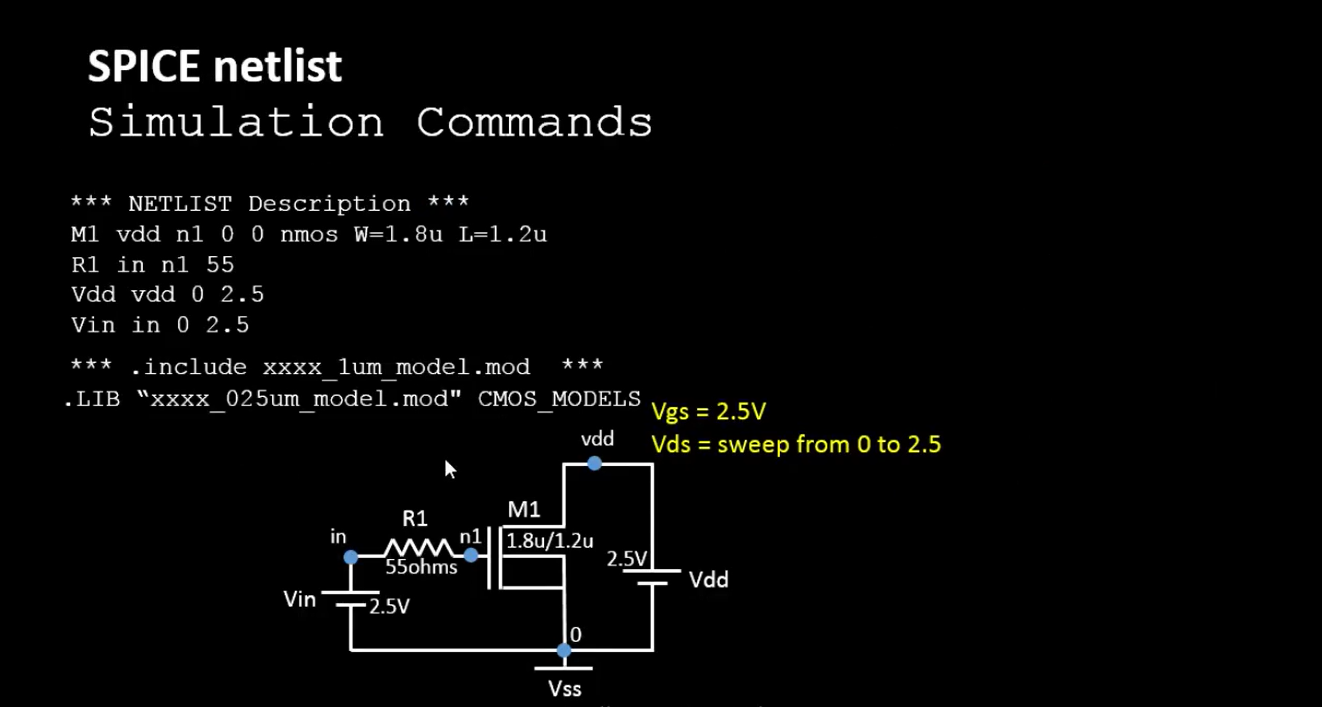
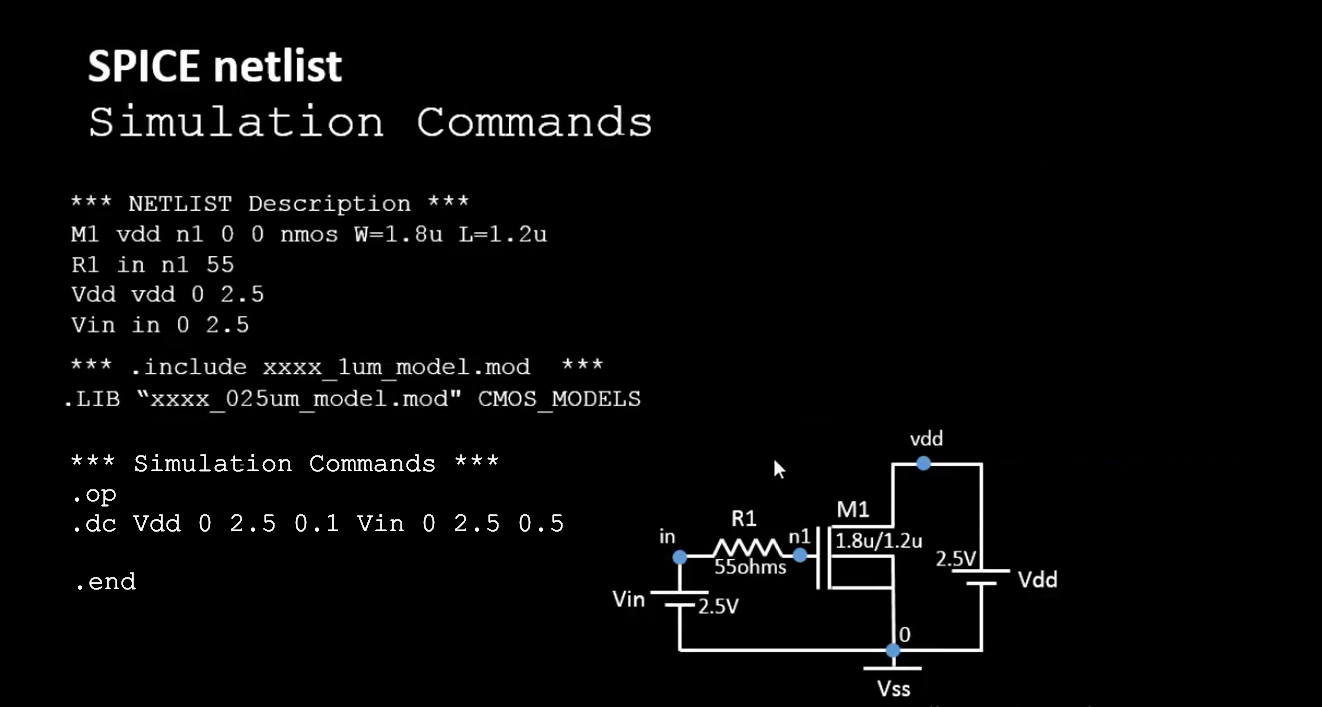
Replace image and update Day14

diff --git a/docs/Day_14.md b/docs/Day_14.md
@@ -29,7 +29,7 @@ A circuit simulator is provided with an input file that contains:
   - Inputs to the circuit, called _**stimulus**_
   - _**Simulation options**_ & _**analysis commands**_ that explain the type of simulation to be run.
 
-| ![CircuitDesignWorkshop_D1_Basic_Spice_Syntax_Weste_Harris_3](/docs/images/CircuitDesignWorkshop/CircuitDesignWorkshop_D1_Basic_Spice_Syntax_Weste_Harris_3.png) | |
+ |
 |:---:|:---:|
 | ![CircuitDesignWorkshop_D1_Basic_Spice_Syntax_Ngspice_1](/docs/images/CircuitDesignWorkshop/CircuitDesignWorkshop_D1_Basic_Spice_Syntax_Ngspice_1.png) | ![CircuitDesignWorkshop_D1_Basic_Spice_Syntax_Ngspice_2](/docs/images/CircuitDesignWorkshop/CircuitDesignWorkshop_D1_Basic_Spice_Syntax_Ngspice_2.png) |
 
@@ -46,13 +46,14 @@ Analysis Types supported by SPICE:
 | Noise Analysis | Measures the device-generated noise for a given circuit. |
 
 The following images show how a SPICE deck is written to perform DC analysis of an NMOS transistor:
-| ![CircuitDesignWorkshop_D1_Basic_Spice_Setup](/docs/images/CircuitDesignWorkshop/CircuitDesignWorkshop_D1_Basic_Spice_Setup.png) |
-|:---:|
-| ![CircuitDesignWorkshop_D1_Basic_Spice_Syntax_1](/docs/images/CircuitDesignWorkshop/CircuitDesignWorkshop_D1_Basic_Spice_Syntax_1.png) |
-| ![CircuitDesignWorkshop_D1_Basic_Spice_Syntax_2](/docs/images/CircuitDesignWorkshop/CircuitDesignWorkshop_D1_Basic_Spice_Syntax_2.png) |
-| ![CircuitDesignWorkshop_D1_Basic_Spice_Syntax_3](/docs/images/CircuitDesignWorkshop/CircuitDesignWorkshop_D1_Basic_Spice_Syntax_3.png) |
-| ![CircuitDesignWorkshop_D1_Basic_Spice_Syntax_4](/docs/images/CircuitDesignWorkshop/CircuitDesignWorkshop_D1_Basic_Spice_Syntax_4.png) |
-| ![CircuitDesignWorkshop_D1_Basic_Spice_Syntax_5](/docs/images/CircuitDesignWorkshop/CircuitDesignWorkshop_D1_Basic_Spice_Syntax_5.png) |
+| ![CircuitDesignWorkshop_D1_Basic_Spice_Syntax_Weste_Harris_3](/docs/images/CircuitDesignWorkshop/CircuitDesignWorkshop_D1_Basic_Spice_Syntax_Weste_Harris_3.png) | ![CircuitDesignWorkshop_D1_Basic_Spice_Setup](/docs/images/CircuitDesignWorkshop/CircuitDesignWorkshop_D1_Basic_Spice_Setup.png) |
+|:---:|:---:|
+| | |
+
+| ![CircuitDesignWorkshop_D1_Basic_Spice_Syntax_1](/docs/images/CircuitDesignWorkshop/CircuitDesignWorkshop_D1_Basic_Spice_Syntax_1.png) | ![CircuitDesignWorkshop_D1_Basic_Spice_Syntax_2](/docs/images/CircuitDesignWorkshop/CircuitDesignWorkshop_D1_Basic_Spice_Syntax_2.png) |
+|:---:|:---:|
+| ![CircuitDesignWorkshop_D1_Basic_Spice_Syntax_3](/docs/images/CircuitDesignWorkshop/CircuitDesignWorkshop_D1_Basic_Spice_Syntax_3.png) | ![CircuitDesignWorkshop_D1_Basic_Spice_Syntax_4](/docs/images/CircuitDesignWorkshop/CircuitDesignWorkshop_D1_Basic_Spice_Syntax_4.png) |
+| ![CircuitDesignWorkshop_D1_Basic_Spice_Syntax_5](/docs/images/CircuitDesignWorkshop/CircuitDesignWorkshop_D1_Basic_Spice_Syntax_5.png) | ![CircuitDesignWorkshop_D1_Basic_Spice_Simulation_1](/docs/images/CircuitDesignWorkshop/CircuitDesignWorkshop_D1_Basic_Spice_Simulation_1.png)
 
 
 In Digital VLSI Design, the characterization of the various Standard Cells and macros to generate the various models for timing, power and noise analyses **all ultimately rely on SPICE**.  
